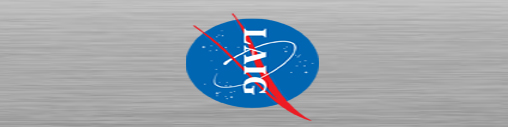
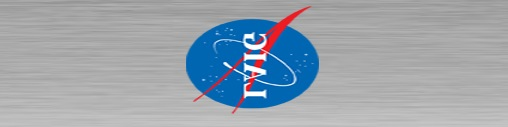
fixed shaders

diff --git a/MySecurityCamera.js b/MySecurityCamera.js
@@ -1,7 +1,14 @@
 class MySecurityCamera extends CGFobject {
     constructor(scene, rtt) {
         super(scene)
-        this.rectangle = new MyRectangle(scene, "camera", -0.5, 0.5, -0.5, 0.5)
+        this.rectangle = new MyRectangle(scene, "camera", 0.5, 1, -1, -0.5)
+
+        for (let i = 0; i < this.rectangle.texCoords.length; i++)
+            this.rectangle.texCoords[i] = this.rectangle.texCoords[i] * 2;
+        this.rectangle.updateTexCoordsGLBuffers();
+
+        debugger;
+        
         this.rtt = rtt;
     }
 

diff --git a/XMLscene.js b/XMLscene.js
@@ -33,9 +33,9 @@ class XMLscene extends CGFscene {
         this.gl.depthFunc(this.gl.LEQUAL);
 
         this.axis = new CGFaxis(this);
-        //this.rtt = new CGFtextureRTT(this, this.gl.canvas.width, this.gl.canvas.height);
+        this.rtt = new CGFtextureRTT(this, this.gl.canvas.width, this.gl.canvas.height);
         //this.rtt = new CGFtextureRTT(this, 1500, 860);
-        this.rtt = new CGFtextureRTT(this, 1400, 800);
+        //this.rtt = new CGFtextureRTT(this, 1400, 800);
 
         this.setUpdatePeriod(33.33);
 

diff --git a/MyRectangle.js b/MyRectangle.js
@@ -56,10 +56,10 @@ class MyRectangle extends CGFobject {
 		let height = Math.abs(this.y2 - this.y1);
 		
 		this.texCoords = [
-			0, height,
-			width, height,
 			0, 0,
-			width, 0			
+			width, 0,
+			0, height,
+			width, height			
 		]
 		this.primitiveType = this.scene.gl.TRIANGLES;
 		this.initGLBuffers();
